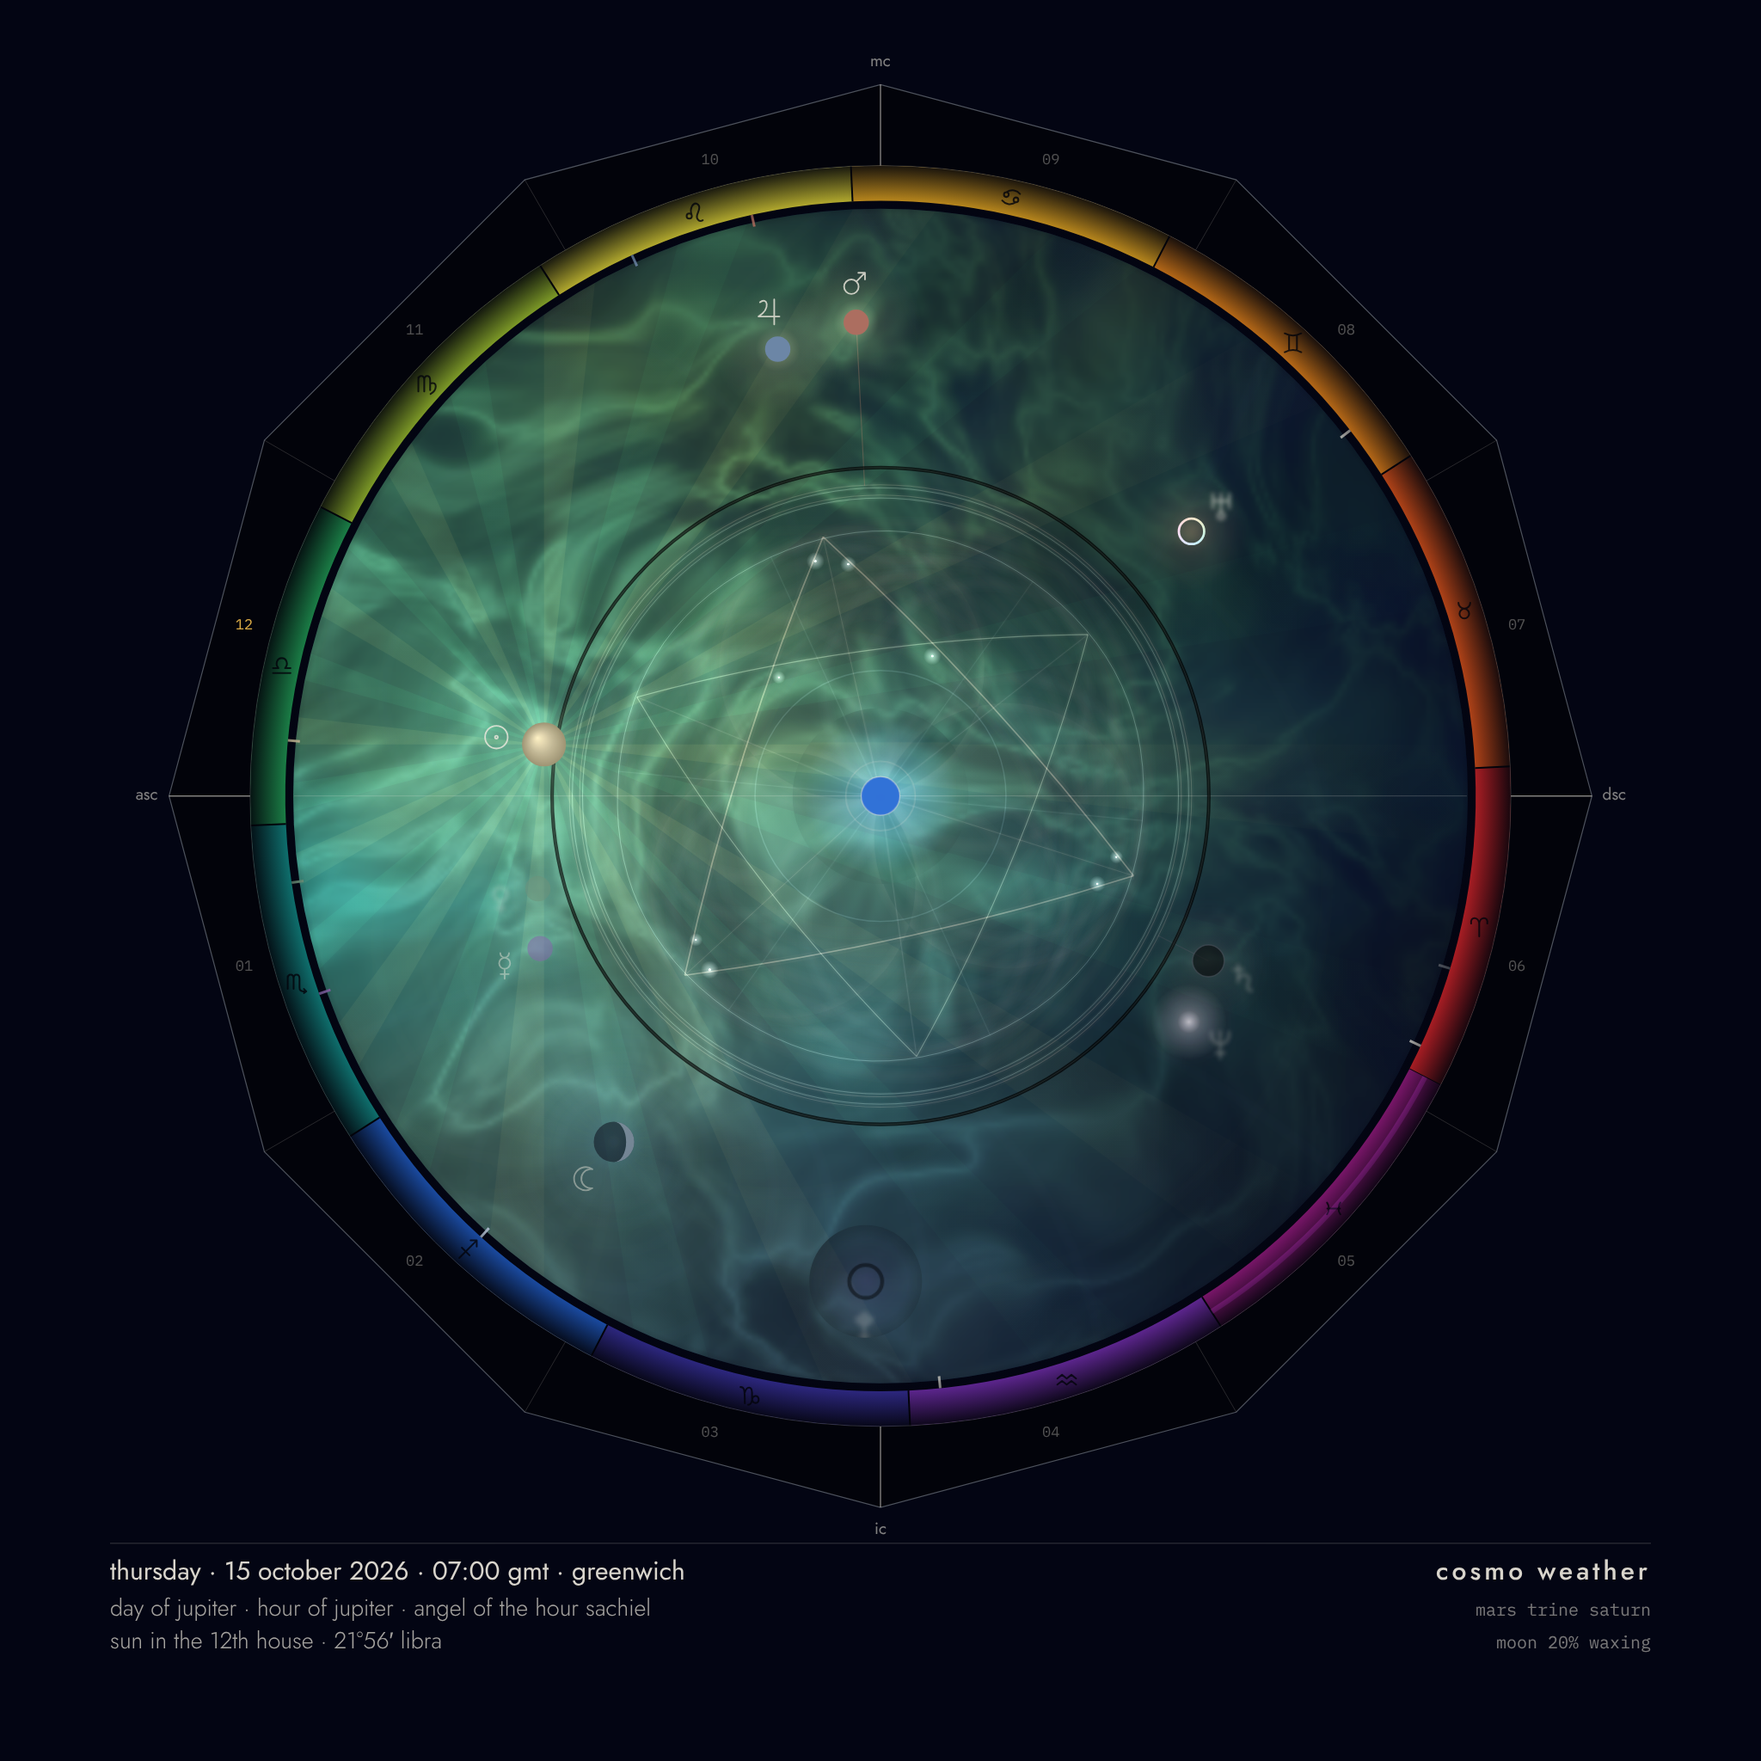
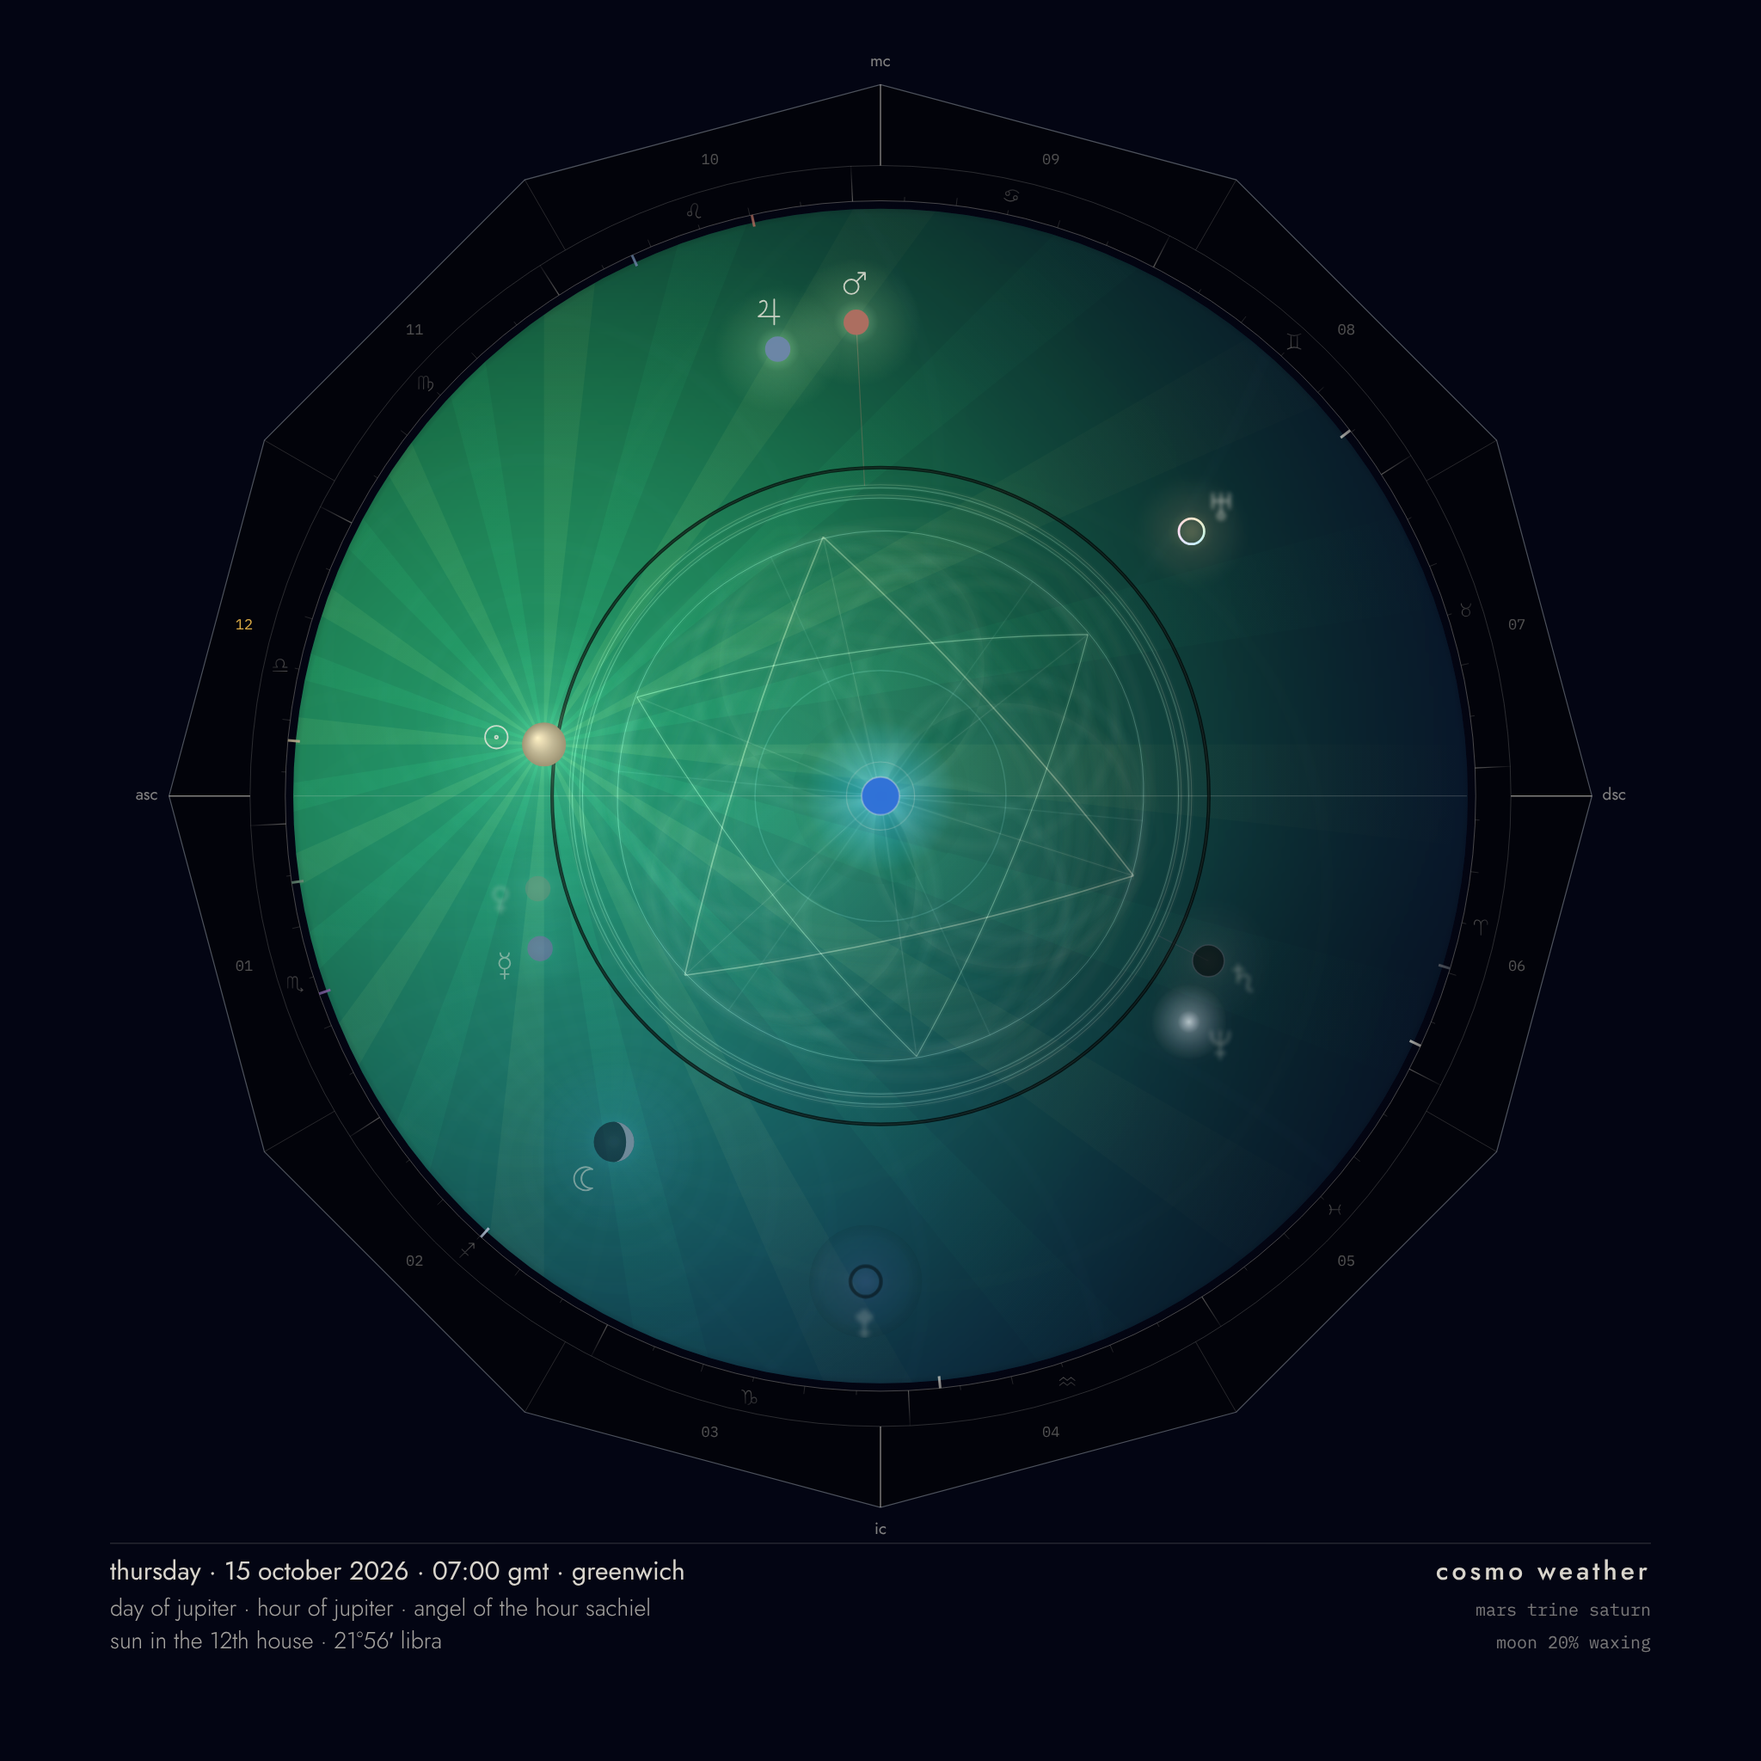
Cosmo weather: pure light field, monochrome rete, earned stars
- replace the noise nebula with a three-light colour field (no texture);
  smoke kept behind ?field=smoke for comparison
- rete becomes a monochrome chapter ring; sign colour lives only in the
  field and the auras
- constellation stars only where figure vertices coincide
- lighter Saturn grooves and Pluto lens; system book updated

Claude-Session: https://claude.ai/code/session_01MS32ECfXuw3H1b783sDKDX

Changed region(s): [[0.125, 0.0938, 0.875, 0.8125]]

diff --git a/cosmo-weather/js/render.js b/cosmo-weather/js/render.js
@@ -116,6 +116,44 @@
     ];
   }
   const fieldCache = { key: null, canvas: null };
+
+  /* The field: three lights over midnight — ascendant from the eastern horizon, sun and moon where
+     they stand, in their sign colours, weighted by sect. Pure light, no texture: a colour field. */
+  function buildLight(state, Lt, N) {
+    const key = ['l', N, Math.round(state.date.getTime() / 60000), state.loc.lat, state.loc.lon].join('|');
+    if (fieldCache.key === key) return fieldCache.canvas;
+    const cv = fieldCache.canvas && fieldCache.canvas.width === N ? fieldCache.canvas : document.createElement('canvas');
+    cv.width = cv.height = N;
+    const g = cv.getContext('2d');
+    const img = g.createImageData(N, N);
+    const lin = c => K.hexToRgb(c).map(v => Math.pow(v, 2.2));
+    const L = lights(state, Lt).map(l => ({ ...l, lin: lin(l.color) }));
+    const base = lin(MIDNIGHT);
+    const E = 0.6 + 0.4 * state.moon.illum;
+    const ext = 1.08;
+    for (let j = 0; j < N; j++) for (let i = 0; i < N; i++) {
+      const x = (i / (N - 1) * 2 - 1) * ext, y = (j / (N - 1) * 2 - 1) * ext;
+      const rr = x * x + y * y, o = (j * N + i) * 4;
+      if (rr > ext * ext) { img.data[o + 3] = 0; continue; }
+      let r = base[0], gg = base[1], b = base[2];
+      for (const l of L) {
+        const dx = x - l.pos.x, dy = y - l.pos.y;
+        const f = 0.95 * l.w * Math.exp(-(dx * dx + dy * dy) / (2 * l.sigma * l.sigma));
+        r += l.lin[0] * f; gg += l.lin[1] * f; b += l.lin[2] * f;
+      }
+      const under = 1 - 0.22 * smooth(0, 0.35, y);           // below the horizon: under the earth
+      const vig = 0.72 + 0.28 * (1 - Math.min(1, rr));
+      const k = E * under * vig;
+      img.data[o] = 255 * Math.pow(1 - Math.exp(-r * k * 2.2), 1 / 2.2);
+      img.data[o + 1] = 255 * Math.pow(1 - Math.exp(-gg * k * 2.2), 1 / 2.2);
+      img.data[o + 2] = 255 * Math.pow(1 - Math.exp(-b * k * 2.2), 1 / 2.2);
+      img.data[o + 3] = 255;
+    }
+    g.putImageData(img, 0, 0);
+    fieldCache.key = key; fieldCache.canvas = cv;
+    return cv;
+  }
+
   function buildField(state, Lt, N) {
     const key = [N, Math.round(state.date.getTime() / 60000), state.loc.lat, state.loc.lon].join('|');
     if (fieldCache.key === key) return fieldCache.canvas;
@@ -308,7 +346,8 @@
     const h = hardness(cfg);
     const col = figureColor(state, cfg);
     const pa = presence(state, cfg.a), pb = presence(state, cfg.b);
-    const accent = lightness(pa) > lightness(pb) ? pa : pb;   // when the mix goes black, the lighter force edges the groove
+    const accent = lightness(pa) > lightness(pb) ? pa : pb;
+    const dark = lightness(col) < 0.22;   // when the mix goes black, the lighter force edges the groove
     const primary = role === 'primary';
     const alpha = primary ? 1 : 0.38;
     R *= 1 + 0.006 * Math.sin(t * 0.6 + (primary ? 0 : 2));
@@ -322,14 +361,13 @@
     const iris = cfg.a === 'uranus' || cfg.b === 'uranus';
     const colAt = i => iris ? K.hueShift(col, 40 * Math.sin(t * 0.5 + i * 1.3)) : col;
     const sg = (p, c, w, a) => strokeGlow(ctx, p, c, w, a, E, accent);
-    const dark = lightness(col) < 0.22;
     ctx.save();
     const geo = { verts: [], edges: [], power: cfg.power, role };
 
     // halo — jupiter
     withBlur(ctx, blur.halos, () => {
       const p = new Path2D(); p.arc(cx, cy, R * 1.02, 0, TAU); p.moveTo(cx + R * 1.055, cy); p.arc(cx, cy, R * 1.055, 0, TAU);
-      sg(p, colAt(0), lw * 0.6, alpha * 0.6);
+      sg(p, colAt(0), lw * (dark ? 0.3 : 0.6), alpha * (dark ? 0.45 : 0.6));
     });
 
     // rose-engine band — curves (venus); primary only, two counter-phased sets make the moiré
@@ -472,10 +510,6 @@
       const w = Math.sqrt(Math.min(1.5, A.power) * Math.min(1.5, B.power));
       for (const a of A.verts) for (const b of B.verts) {
         if (Math.hypot(a.x - b.x, a.y - b.y) < tol) stars.push({ x: (a.x + b.x) / 2, y: (a.y + b.y) / 2, b: 1.0 * w + 0.4, major: true });
-      }
-      for (const ea of A.edges) for (const eb of B.edges) {
-        const x = segX(ea[0], ea[1], eb[0], eb[1]);
-        if (x) stars.push({ x: x.x, y: x.y, b: 0.45 * w, major: false });
       }
     }
     // merge near-duplicates, keep the brightest few
@@ -622,7 +656,7 @@
   function lens(ctx, cx, cy, r, strength) {
     if (strength < 0.05) return;
     const src = ctx.canvas;
-    const s = 1 - 0.28 * strength;
+    const s = 1 - 0.16 * strength;
     const sx = cx - r * s, sy = cy - r * s, sw = 2 * r * s;
     try {
       const dpr = ctx.getTransform ? ctx.getTransform().a : 1;
@@ -634,7 +668,7 @@
       ctx.restore();
       ctx.save();
       const g = ctx.createRadialGradient(cx, cy, r * 0.75, cx, cy, r);
-      g.addColorStop(0, 'rgba(0,0,0,0)'); g.addColorStop(1, `rgba(0,0,0,${0.28 * strength})`);
+      g.addColorStop(0, 'rgba(0,0,0,0)'); g.addColorStop(1, `rgba(0,0,0,${0.12 * strength})`);
       ctx.fillStyle = g; ctx.beginPath(); ctx.arc(cx, cy, r, 0, TAU); ctx.fill();
       ctx.restore();
     } catch (e) { /* tainted or unsupported: skip */ }
@@ -691,37 +725,31 @@
     ctx.restore();
   }
 
+  /* the rete: a chapter ring. degrees, signs, planet notches. no colour — the colour lives in the sky */
   function drawRete(ctx, state, Lt, lw) {
-    const u = Lt.u;
+    const u = Lt.u, rm = (Lt.Rz + Lt.Rzi) / 2;
     ctx.save();
+    ctx.fillStyle = VOID;
+    ctx.beginPath(); ctx.arc(Lt.cx, Lt.cy, Lt.Rz, 0, TAU); ctx.arc(Lt.cx, Lt.cy, Lt.Rzi, 0, TAU, true); ctx.fill('evenodd');
+    ctx.strokeStyle = K.rgba(INK, 0.4); ctx.lineWidth = 1 * u;
+    ctx.beginPath(); ctx.arc(Lt.cx, Lt.cy, Lt.Rzi, 0, TAU); ctx.stroke();
+    for (let d = 0; d < 360; d++) {
+      const a = eclAngle(state, d), major = d % 30 === 0, five = d % 5 === 0;
+      if (!five && !major) continue;
+      const l = major ? (Lt.Rz - Lt.Rzi) : five && d % 10 === 0 ? 9 * u : 5 * u;
+      const p0 = polar(Lt, a, Lt.Rzi), p1 = polar(Lt, a, Lt.Rzi + l);
+      ctx.strokeStyle = K.rgba(INK, major ? 0.5 : 0.28); ctx.lineWidth = (major ? 1.2 : 0.8) * u;
+      ctx.beginPath(); ctx.moveTo(p0.x, p0.y); ctx.lineTo(p1.x, p1.y); ctx.stroke();
+    }
     for (let i = 0; i < 12; i++) {
-      const a0 = eclAngle(state, i * 30), a1 = eclAngle(state, (i + 1) * 30);
-      ctx.beginPath();
-      ctx.arc(Lt.cx, Lt.cy, Lt.Rz, -a0, -a1, true);
-      ctx.arc(Lt.cx, Lt.cy, Lt.Rzi, -a1, -a0, false);
-      ctx.closePath();
-      ctx.fillStyle = C.SIGNS[i].color; ctx.fill();
-      // sign glyph in the ring, near-black on colour
-      const am = eclAngle(state, i * 30 + 15), p = polar(Lt, am, (Lt.Rz + Lt.Rzi) / 2);
-      G.sign(ctx, i, p.x, p.y, (Lt.Rz - Lt.Rzi) * 0.62, 'rgba(4,5,12,0.82)', 0.16);
-      // hairline divisions
-      const q0 = polar(Lt, a0, Lt.Rzi), q1 = polar(Lt, a0, Lt.Rz);
-      ctx.strokeStyle = VOID; ctx.lineWidth = 2 * u; ctx.beginPath(); ctx.moveTo(q0.x, q0.y); ctx.lineTo(q1.x, q1.y); ctx.stroke();
+      const p = polar(Lt, eclAngle(state, i * 30 + 15), rm + 2 * u);
+      G.sign(ctx, i, p.x, p.y, (Lt.Rz - Lt.Rzi) * 0.5, K.rgba(INK, 0.62), 0.11);
     }
-    // pisces: ultraviolet glow on its segment
-    {
-      const a0 = eclAngle(state, 330), a1 = eclAngle(state, 360);
-      ctx.save(); ctx.globalCompositeOperation = 'lighter';
-      ctx.strokeStyle = K.rgba(C.SIGNS[11].glow, 0.35); ctx.lineWidth = 6 * u;
-      ctx.beginPath(); ctx.arc(Lt.cx, Lt.cy, (Lt.Rz + Lt.Rzi) / 2, -a0, -a1, true); ctx.stroke();
-      ctx.restore();
-    }
-    // planet notches on the inner edge of the rete: true ecliptic longitude
+    // planet notches on the inner edge: true ecliptic longitude, in each planet's tincture
     for (const key of C.ORDER) {
       const a = eclAngle(state, state.bodies[key].lon);
       const p0 = polar(Lt, a, Lt.Rzi), p1 = polar(Lt, a, Lt.Rzi - 14 * u);
-      ctx.strokeStyle = key === 'saturn' ? C.PLANETS.saturn.rim : K.rgba(coreColor(state, key), 0.95);
-      if (C.PLANETS[key].kind === 'optic') ctx.strokeStyle = K.rgba(INK, 0.7);
+      ctx.strokeStyle = key === 'saturn' ? C.PLANETS.saturn.rim : C.PLANETS[key].kind === 'optic' ? K.rgba(INK, 0.7) : K.rgba(coreColor(state, key), 0.95);
       ctx.lineWidth = 3 * u; ctx.beginPath(); ctx.moveTo(p0.x, p0.y); ctx.lineTo(p1.x, p1.y); ctx.stroke();
     }
     ctx.restore();
@@ -791,9 +819,10 @@
     ctx.save();
     ctx.beginPath(); ctx.arc(Lt.cx, Lt.cy, Lt.R + 1, 0, TAU); ctx.clip();
     ctx.fillStyle = MIDNIGHT; ctx.fillRect(0, 0, S, S);
-    const field = buildField(state, Lt, opts.fieldRes || 180);
+    const smoke = opts.field === 'smoke';
+    const field = smoke ? buildField(state, Lt, opts.fieldRes || 180) : buildLight(state, Lt, opts.fieldRes || 180);
     ctx.save();
-    ctx.translate(Lt.cx, Lt.cy); ctx.rotate(t * 0.004);
+    ctx.translate(Lt.cx, Lt.cy);
     ctx.imageSmoothingEnabled = true; ctx.imageSmoothingQuality = 'high';
     ctx.drawImage(field, -Lt.R * 1.08, -Lt.R * 1.08, Lt.R * 2.16, Lt.R * 2.16);
     ctx.restore();

diff --git a/cosmo-weather/js/app.js b/cosmo-weather/js/app.js
@@ -21,6 +21,7 @@
     offsetMs: 0,
     fixed: params.get('t') ? new Date(params.get('t')) : null,
     playing: false,
+    field: params.get('field') || 'waves',
     state: null,
     lastCompute: 0
   };
@@ -68,7 +69,7 @@
     const t = (ts - t0) / 1000;
     if (S.dirty && (!S.playing || ts - lastPlate > 140)) {
       pctx.setTransform(S.dpr, 0, 0, S.dpr, 0, 0);
-      info = CW.render.render(pctx, S.state, S.side, t, { mode: S.mode, fieldRes: S.playing ? 110 : 200, caption: S.side >= 560, plate: true, fast: S.playing });
+      info = CW.render.render(pctx, S.state, S.side, t, { mode: S.mode, fieldRes: S.playing ? 110 : 200, caption: S.side >= 560, plate: true, fast: S.playing, field: S.field });
       S.dirty = false; lastPlate = ts;
     }
     ctx.setTransform(1, 0, 0, 1, 0, 0);
@@ -82,7 +83,7 @@
     const cv = document.createElement('canvas');
     cv.width = cv.height = px;
     const c = cv.getContext('2d');
-    CW.render.render(c, S.state, px, (performance.now() - t0) / 1000, { mode: S.mode, fieldRes: px >= 3000 ? 420 : 300 });
+    CW.render.render(c, S.state, px, (performance.now() - t0) / 1000, { mode: S.mode, fieldRes: px >= 3000 ? 420 : 300, field: S.field });
     const d = S.state.date;
     const stamp = d.toISOString().slice(0, 16).replace(/[:T]/g, '');
     cv.toBlob(b => {

diff --git a/cosmo-weather/DESIGN.md b/cosmo-weather/DESIGN.md
@@ -50,7 +50,7 @@ Every mark on the dial is computed from the sky by a stated rule. Nothing is orn
 Outer planets follow Dion Fortune. They have no pigment: they are optics, which is also true to the eye.
 White is reserved for constellation stars.
 
-**Signs — GD King scale of the paths = Itten's twelve-step circle.** Aries scarlet → red-orange → orange → amber → yellow → yellow-green → emerald → green-blue → blue → indigo → violet → Pisces **ultraviolet** (red-violet rendered dark, with a blacklight glow). Golden Dawn letter order; no Crowley swaps. Colour holds flat across a sign and cross-fades over 2° at each cusp.
+**Signs — GD King scale of the paths = Itten's twelve-step circle** (used in the field and in planet auras, never as a ring on the frame). Aries scarlet → red-orange → orange → amber → yellow → yellow-green → emerald → green-blue → blue → indigo → violet → Pisces **ultraviolet** (red-violet rendered dark, with a blacklight glow). Golden Dawn letter order; no Crowley swaps. Colour holds flat across a sign and cross-fades over 2° at each cusp.
 
 **Elements (where needed).** fire flame-scarlet · water deep blue · air bright pale yellow · earth citrine, olive, russet, black.
 
@@ -60,7 +60,7 @@ White is reserved for constellation stars.
 
 - **Container.** A dodecagon, Saturn's black, edged in lead. Twelve sides hold every Ptolemaic aspect as a vertex subset (2, 3, 4, 6, 12). Quintiles and septiles do not fit it and look foreign against it, which is correct.
 - **Houses.** Vertices are cusps and faces are houses: ascendant on the left vertex, MC on the top vertex. The frame is fixed to the observer's horizon. It does not turn.
-- **Rete.** A thin ring of the twelve sign colours, rotated so the ascendant degree sits on the eastern horizon. Planet notches mark true longitude.
+- **Rete.** A monochrome chapter ring: degree ticks and sign glyphs in off-white, rotated so the ascendant degree sits on the eastern horizon. Planet notches in their tinctures mark true longitude. Sign colour never appears on the frame; it lives in the field and the auras.
 - **Sky.** Planets are placed in their real local sky. The angle is the Placidian mundane position, the same unequal division as the planetary hours: rising on the left, culminating at the top, setting on the right. The radius is the altitude. The noon sun stands high in summer and low in winter, as on the Prague Orloj. Below the horizon the sun is switched off.
 - **Portal.** The inner disc, half the sky's radius, centred on the pole. Mandalas live here and only here.
 - **Pole.** The axis. Coloured by the day ruler and the hour ruler.
@@ -93,7 +93,7 @@ An aspect is a fraction of the circle: angle = k·360/n → the star polygon {n/
 
 **Orientation.** Vertex zero points at the first planet's true longitude on the rete. Rotation comes from the sky, never from a design choice.
 
-**Constellations.** Figures share the portal at the same radius. Where vertices of two figures coincide, a white star with a diffraction cross; where edges cross, a small star. Major stars are joined by a hairline: the figure of the day. Two centred, aligned figures share gcd(n₁, n₂) vertices.
+**Constellations.** Figures share the portal at the same radius. Only where vertices of two figures coincide: a white star with a diffraction cross. Plain edge crossings do not count (tested: they read as beads). Major stars are joined by a hairline: the figure of the day. Two centred, aligned figures share gcd(n₁, n₂) vertices.
 
 ## 6 · Blur: what each planet owns
 
@@ -124,7 +124,9 @@ power = (0.2 + 0.8 · rarity) × aspect weight × (0.3 · exactness^1.5 + 0.7 ·
 
 ## 8 · Field
 
-A domain-warped noise field lit by three lights: the ascendant from the eastern horizon, the sun and the moon at their real positions, in their sign colours and weighted by sect. Each light drifts between two neighbouring hues. Dust lanes and filaments carry the structure. The half of the sky below the horizon is slightly darker: under the earth. No photographs.
+A colour field, not a texture. Three lights over midnight: the ascendant from the eastern horizon, the sun and the moon at their real positions, each in its sign colour and weighted by sect. Below the horizon the field is slightly darker: under the earth. No noise, no smoke, no photographs. Every structure inside the circle is computed geometry.
+
+Rejected and why: a noise nebula (encodes nothing) and a planetary interference field (nine summed wave sources look like random blobs, so it reads as noise anyway). Both remain reachable for comparison with `?field=smoke`.
 
 **Harris weave.** The pencil of circles of the two luminaries: the circles through both, and the Apollonian circles separating them. Projective geometry in the manner of Frieda Harris's Thoth backgrounds, computed from where the sun and moon actually stand. At new moon it collapses into rings; through the month it opens.
 
